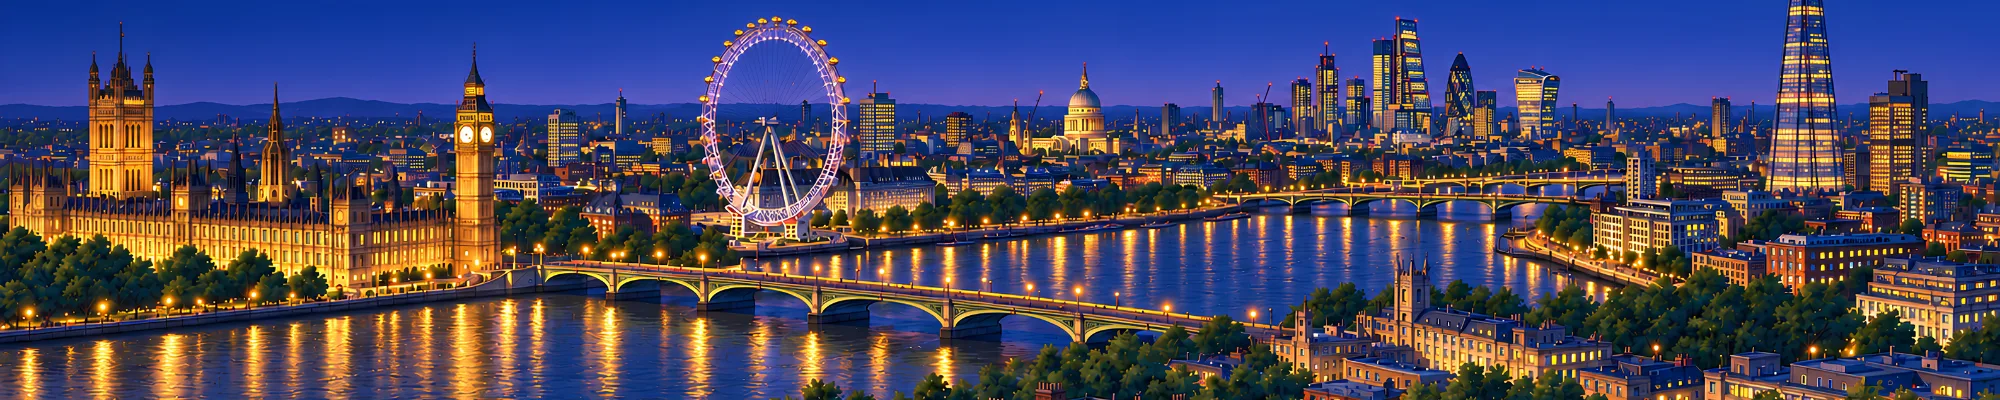
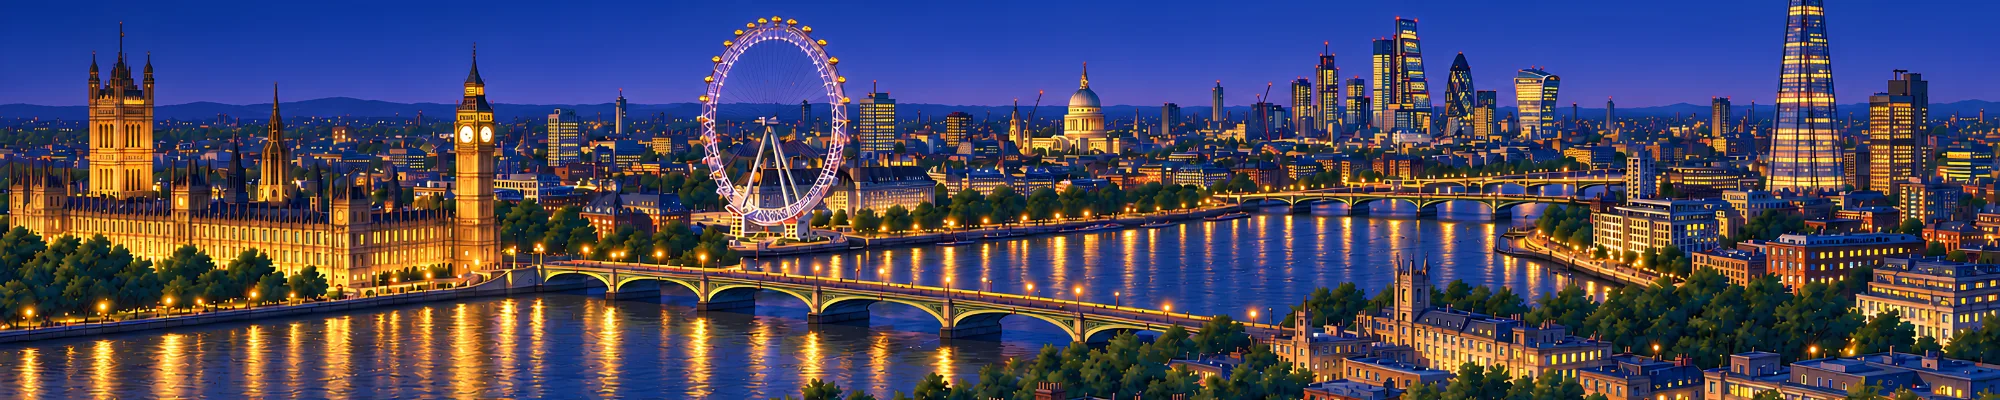
Make the wheels actually turn, and put London on the second pack
The Owner was right, and it was worse than they thought: the wheel had never
drawn a single pixel, in London or Las Vegas, since the day it shipped.

Its mask was `radial-gradient(circle, ...)`, and a radial gradient with no
size stated is sized to the FARTHEST CORNER, which on a square box is 41%
further out than the edge. The opaque annulus at 82-93% therefore landed at
58-66% of the half-width, entirely outside the element, and masked the whole
wheel away. Measured rather than reasoned: with the mask as it was, an opaque
white ring changed ZERO pixels against the same frame with the element set to
display:none; naming the size changes 8306.

Two more things had to be true before it would read as turning.

A ring of 28 evenly spaced identical lights has 28-fold rotational symmetry,
so rotating it is very nearly a no-op to the eye - every 12.857 degrees it is
the same picture, and in between there is no feature to follow. There is now
one cabin lit brighter than its neighbours, riding the rim, and it is the
whole reason the motion is legible. Honest to both wheels: their capsules are
lit individually.

Both wheels are painted as ELLIPSES - London's Eye is 150px by 196 - and the
old entry was a circle 139px across centred 8% of the card too high, so it cut
straight through the middle of the painted wheel. A wheel may now declare its
height. The ellipse is a vertical scale on the wheel and the spin is on a box
[…]

diff --git a/src/index.css b/src/index.css
@@ -2714,20 +2714,82 @@ a.doc-file-link:hover { text-decoration: underline; }
 /* The wheel: 28 cabin lights on a rim, turning. A repeating conic gradient
    masked to a thin annulus; the rotate property, not transform, so the
    centring translate is untouched. */
-.mast-motion-wheel {
+/* ── MASTHEAD-CLOCK-1 (2026-09-08, Owner: "this and the big ben are the most
+   most distinctive structures there"). A lit clock face. It is deliberately
+   NOT one of the existing kinds: `lights` twinkle, which on a clock dial reads
+   as a fault, and `beacons` blink, which reads as a warning. A dial is simply
+   lit - by day as well, since these faces are lit around the clock - so this
+   breathes slowly and shallowly and never drops far. Warm white, because that
+   is the colour the artwork paints them. ── */
+.mast-motion-clock {
   position: absolute; aspect-ratio: 1; opacity: 0;
-  transform: translate(-50%, -50%); border-radius: 50%; filter: blur(0.5px);
+  transform: translate(-50%, -50%); border-radius: 50%;
+  background: radial-gradient(circle,
+    rgba(255,252,236,0.92) 0%, rgba(255,238,190,0.55) 42%,
+    rgba(255,214,132,0.20) 70%, transparent 84%);
+  filter: blur(0.4px);
+}
+.mast-scenic .mast-motion-clock { animation: mast-dial 9s ease-in-out var(--dl, 0s) infinite; }
+@keyframes mast-dial {
+  0%, 100% { opacity: 0.66; }
+  50%      { opacity: 0.95; }
+}
+
+/* ── MASTHEAD-WHEEL-2 (2026-09-08, Owner: "I think you claimed they move/turn
+   but they really don't"). Correct: the wheel had NEVER DRAWN A PIXEL, in
+   either city, since it shipped.
+   THE BUG. `radial-gradient(circle, ...)` sizes itself FARTHEST-CORNER by
+   default, so on a square box its 100% is the distance to the corner, which is
+   41% further out than the edge. The mask's opaque annulus at 82-93% therefore
+   landed at 58-66% of the half-width - entirely OUTSIDE the element - and
+   masked the whole wheel away. Measured, not guessed: with the mask as it was,
+   an opaque white ring changed 0 pixels against a frame with the element set
+   to display:none; with `closest-side` it changes 8306. Percentages in a
+   radial gradient are meaningless until the gradient's SIZE is stated.
+   THE SECOND BUG, which would have survived the first fix: a ring of evenly
+   spaced identical lights has 28-fold rotational symmetry, so turning it is
+   almost a no-op to the eye - every 12.857 degrees it is the same picture, and
+   in between there is no feature to follow. Hence the cabin below. ── */
+.mast-motion-wheel {
+  /* The box is SQUARE and the ellipse is a vertical scale on it, so the child
+     that spins spins a circle. Scale a rotating ellipse and it tumbles like a
+     coin; rotate inside a scaled box and it turns like a wheel. */
+  position: absolute; aspect-ratio: 1; opacity: 0;
+  transform: translate(-50%, -50%) scaleY(var(--wr, 1));
+}
+.mast-motion-wheel-turn { position: absolute; inset: 0; }
+.mast-motion-wheel-rim {
+  position: absolute; inset: 0; border-radius: 50%; filter: blur(0.5px);
   background: repeating-conic-gradient(from 0deg,
     rgba(255,196,250,0.95) 0deg 2.6deg, transparent 2.6deg 12.857deg);
-  -webkit-mask-image: radial-gradient(circle, transparent 76%, #000 82%, #000 93%, transparent 100%);
-  mask-image: radial-gradient(circle, transparent 76%, #000 82%, #000 93%, transparent 100%);
+  -webkit-mask-image: radial-gradient(circle closest-side, transparent 76%, #000 82%, #000 93%, transparent 100%);
+  mask-image: radial-gradient(circle closest-side, transparent 76%, #000 82%, #000 93%, transparent 100%);
+}
+/* One capsule, lit brighter than its 27 neighbours, riding the rim at 87.5% of
+   the radius - the middle of the band the rim's mask leaves open. It is what
+   the eye follows, and it is honest to both wheels: their capsules are lit
+   individually. Sized as a share of the wheel, so it stays in proportion on a
+   3.7% Las Vegas wheel and a 7% London one alike. */
+.mast-motion-wheel-cabin {
+  position: absolute; left: 50%; top: 50%;
+  width: 11%; aspect-ratio: 1; margin: -5.5% 0 0 -5.5%;
+  border-radius: 50%; transform: translateY(-397%);
+  background: radial-gradient(circle,
+    rgba(255,255,255,0.98) 0%, rgba(255,226,252,0.62) 38%,
+    rgba(255,180,246,0.22) 66%, transparent 82%);
 }
 @keyframes mast-turn { from { rotate: 0deg; } to { rotate: 360deg; } }
 .mast-scenic.mast-scene-night .mast-motion-wheel,
 .mast-scenic.mast-scene-cloudynight .mast-motion-wheel,
 .mast-scenic.mast-scene-rainnight .mast-motion-wheel,
-.mast-scenic.mast-scene-snownight .mast-motion-wheel {
-  opacity: 0.8; animation: mast-turn 52s linear infinite;
+.mast-scenic.mast-scene-snownight .mast-motion-wheel { opacity: 0.8; }
+/* The spin is on the inner box, not on the wheel: the wheel carries the scale
+   that makes the circle an ellipse, and those two cannot share an element. */
+.mast-scenic.mast-scene-night .mast-motion-wheel-turn,
+.mast-scenic.mast-scene-cloudynight .mast-motion-wheel-turn,
+.mast-scenic.mast-scene-rainnight .mast-motion-wheel-turn,
+.mast-scenic.mast-scene-snownight .mast-motion-wheel-turn {
+  animation: mast-turn 52s linear infinite;
 }
 
 /* The orb: a soft disc whose hue drifts right round the wheel, cut off
@@ -3144,9 +3206,9 @@ a.doc-file-link:hover { text-decoration: underline; }
   .mast-motion-bird, .mast-motion-heli, .mast-motion-heli-strobe, .mast-motion-flare,
   .mast-motion-ghost, .mast-motion-ferry, .mast-motion-ferry-hull, .mast-motion-ferry-wake,
   .mast-motion-ferry-lamp, .mast-motion-glint, .mast-motion-steam, .mast-motion-anchored,
-  .mast-motion-neon, .mast-motion-wheel, .mast-motion-orb, .mast-motion-snow, .mast-motion-flake,
+  .mast-motion-neon, .mast-motion-wheel, .mast-motion-wheel-turn, .mast-motion-wheel-cabin, .mast-motion-orb, .mast-motion-snow, .mast-motion-flake,
   .mast-motion-swell, .mast-motion-surf, .mast-motion-rainbow, .mast-motion-cabin,
-  .mast-motion-emoji, .mast-motion-torch, .mast-motion-strike {
+  .mast-motion-emoji, .mast-motion-torch, .mast-motion-clock, .mast-motion-strike {
     animation: none !important; opacity: 0 !important;
   }
 }

diff --git a/src/lib/mastheadCityScenes.js b/src/lib/mastheadCityScenes.js
@@ -806,7 +806,10 @@ export const CITY_MOTION = {
     // radius of 1.83% of the card WIDTH. Diameter is a share of the width
     // because the ring is square in pixels and the card is not; the fit
     // predicts the measured span within 0.2% at every row above the skyline.
-    wheel: { x: 39.35, y: 56.4, d: 3.66 },
+    // MASTHEAD-WHEEL-2: re-measured as the CABIN RING rather than the hub, and
+    // with a height, because a wheel is an ellipse on these cards. The High
+    // Roller's is very nearly round - 80px by 78px - so its scale is 0.98.
+    wheel: { x: 39.4, y: 56.2, d: 4.0, h: 19.6 },
     // The Sphere: the largest solid-yellow component on the Night frame spans
     // x 44.50-49.30 with its top at y 55.0, so it is 4.80% across, 24.0% tall,
     // centred at y 67.0, and the skyline cuts it 67% of the way down.
@@ -1522,6 +1525,18 @@ export const CITY_MOTION = {
     rainfall: true,
   },
   london: {
+    // MASTHEAD-LONDON-2 (2026-09-08): the second London drop, and a TARGETED
+    // one rather than a redraw. Diffed frame by frame against pack 1: Cloudy,
+    // Dawn, Day, GoldenHour, Morning and Sunset are BYTE-IDENTICAL, Night is
+    // relit (18% of pixels moved, none of them geometry), Rain and CloudyNight
+    // are largely new, and RainNight is a new scene. So the pack is ten frames
+    // now, and every point below was re-verified rather than re-measured: the
+    // rigid fit that recovers a pack's offset from its own points reports 0,0
+    // on the new Night frame at the same score as the old one. Two families
+    // appeared to want a 3px shift on CloudyNight and RainNight and were left
+    // alone - they disagreed on the direction, which is what chasing noise in
+    // a dim frame looks like, and the edge correlation says at most 1px.
+    //
     // MASTHEAD-LONDON-1 (2026-09-06): a new city, nine frames, measured through
     // the TOP-anchored crop (historic). The view looks east down the
     // Thames: Parliament and Big Ben across the left, the London Eye at x 38.7,
@@ -1556,7 +1571,17 @@ export const CITY_MOTION = {
     // never varies by more than 0.1), and pinning the apex at row 18 gives
     // R 69.7px. Rows below 96 were excluded - the city behind the wheel creeps
     // into the row scan there and inflates the radius by half again.
-    wheel: { x: 38.7, y: 21.95, d: 6.97 },
+    // MASTHEAD-CLOCK-1 (Owner). Big Ben's two lit dials, the near one and the
+    // one turned away from us: measured off the night frame at 11px and 9px
+    // across, centres level at y 33.4. They burn rather than twinkle, which is
+    // why they are their own kind and not two more `lights`.
+    clock: [[23.31, 33.4, 0.62], [24.3, 33.4, 0.48]],
+    // MASTHEAD-WHEEL-2: the Eye re-measured on the capsule ring. The old entry
+    // was a circle centred at y 21.95 with a diameter of 6.97% of the width,
+    // which is 139px across and 139px tall: the painted wheel is 150 by 196,
+    // so that circle cut clean across the middle of it. Traced by overlay on
+    // the night frame, where the rim is the brightest thing against the sky.
+    wheel: { x: 38.9, y: 29.8, d: 7.5, h: 49 },
     // The Thames at night. Reflections here are LONG streaks, so the test that
     // separates them from the embankment lamps is a smear persisting 6 to 26
     // rows down; at the four-sample depth that served Rio, Parliament's lit

diff --git a/src/components/masthead/MastheadMotion.jsx b/src/components/masthead/MastheadMotion.jsx
@@ -177,7 +177,7 @@ export default function MastheadMotion({ city }) {
   if (!m) return null
   const { lights, beacons, beaconTone, aircraft, water, bridge, beam,
     birds, haze, hazeTone, flare, helicopter, rainfall, ferry, ferryTone, glints, steam,
-    neon, wheel, orb, emoji, torch, strike, snowfall, swell, surf, rainbow, cable, sceneOverrides, sceneShift } = m
+    neon, wheel, orb, emoji, torch, clock, strike, snowfall, swell, surf, rainbow, cable, sceneOverrides, sceneShift } = m
   const spans = Array.isArray(bridge) ? bridge : bridge ? [bridge] : []
   // MASTHEAD-SCENE-SHIFT: everything measured against the frame (points, decks,
   // beam, steam) sits in one anchored box, and a scene whose frame is the same
@@ -336,9 +336,41 @@ export default function MastheadMotion({ city }) {
       {/* A wheel is a rim of cabin lights turning slowly. The box is square
           in pixels (width as a share of the card width, aspect-ratio 1), so
           the ring stays round on a card that is not. */}
+      {/* MASTHEAD-CLOCK-1 (Owner: Big Ben is the other landmark on this card).
+          A lit clock face is not a window and not a beacon: it does not
+          twinkle and it does not blink, it just burns, all day and all night,
+          and the only thing it does is breathe a little. Each face carries its
+          own diameter because the two visible on the tower are at different
+          angles to us - the near one measures 11px across, the far one 9. */}
+      {clock?.map(([x, y, d]) => (
+        <span key={`ck-${x}-${y}`} className="mast-motion-clock"
+          style={{ left: `${x}%`, top: `${y}%`, width: `${d}%` }} />
+      ))}
+
+      {/* MASTHEAD-WHEEL-2: a wheel is measured as an ELLIPSE, because both of
+          the ones this registry carries are drawn as one - London's Eye is
+          1.36 times taller than it is wide in pixels. The box stays SQUARE and
+          the ellipse comes from a vertical scale on the parent, so the child
+          that spins is spinning a circle: scale a rotating ellipse and it
+          tumbles, rotate inside a scaled box and it turns. --wr is that
+          scale, the wheel's pixel height over its pixel width. */}
       {wheel && (
         <span className="mast-motion-wheel"
-          style={{ left: `${wheel.x}%`, top: `${wheel.y}%`, width: `${wheel.d}%` }} />
+          style={{
+            left: `${wheel.x}%`, top: `${wheel.y}%`, width: `${wheel.d}%`,
+            '--wr': (wheel.h ? wheel.h / (wheel.d * CARD_ASPECT) : 1).toFixed(4),
+          }}>
+          <span className="mast-motion-wheel-turn">
+          {/* The rim carries the capsule lights; the cabin is ONE of them, lit
+              brighter, and it is the whole reason the wheel reads as turning.
+              A ring of evenly spaced identical lights has 28-fold rotational
+              symmetry, so rotating it is very nearly a no-op to the eye: there
+              is no feature to follow. The cabin is that feature. Both ride the
+              same rotating box, so they cannot drift apart. */}
+            <span className="mast-motion-wheel-rim" />
+            <span className="mast-motion-wheel-cabin" />
+          </span>
+        </span>
       )}
 
       {/* The orb's skin drifts through the hues, masked off below the line
